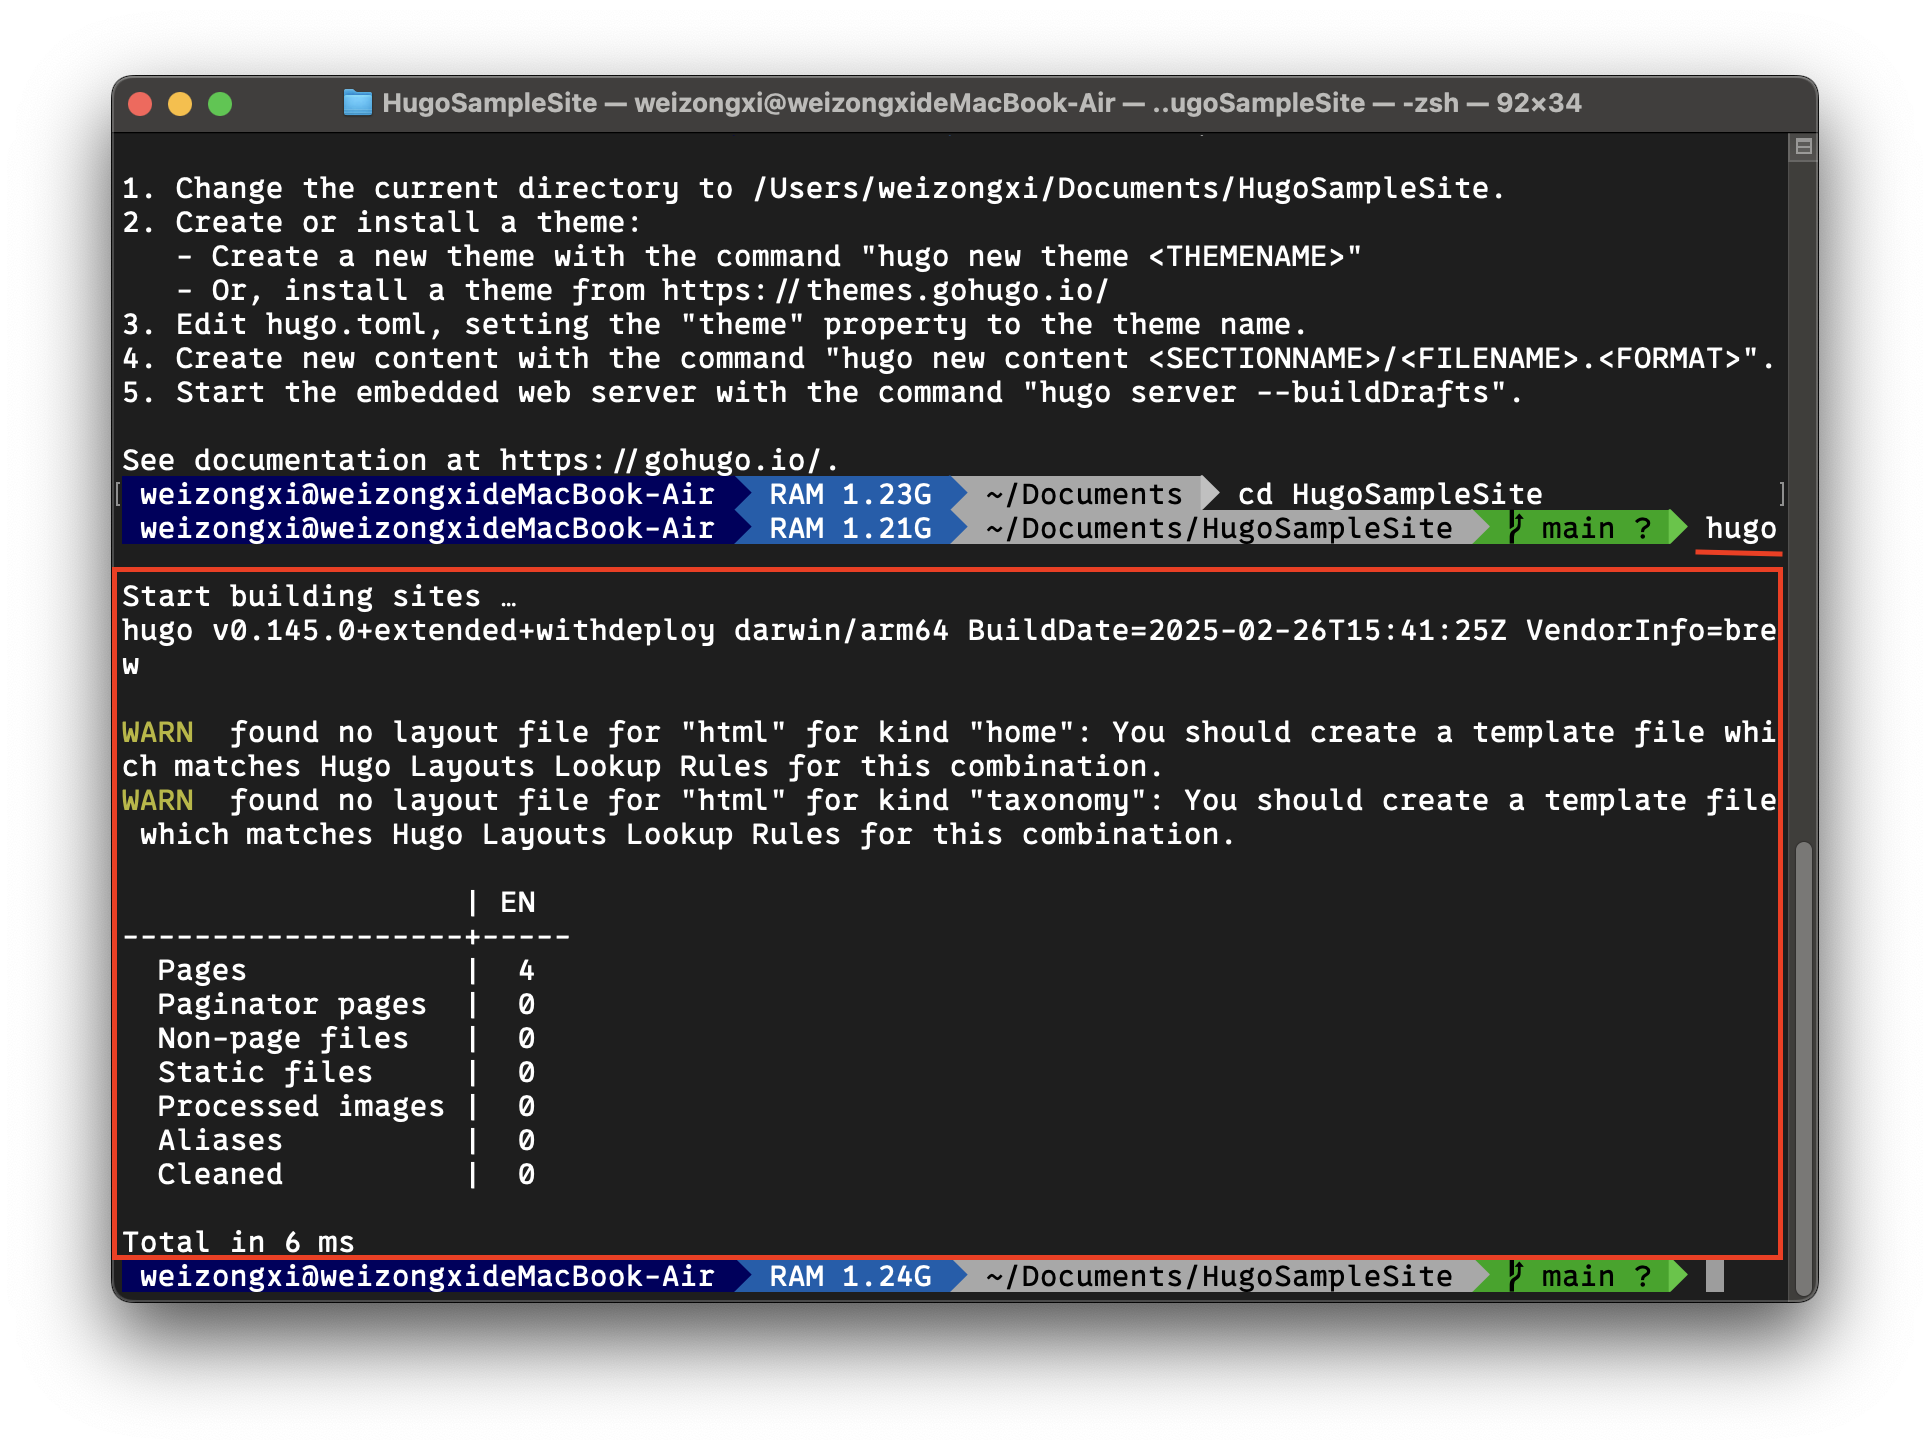
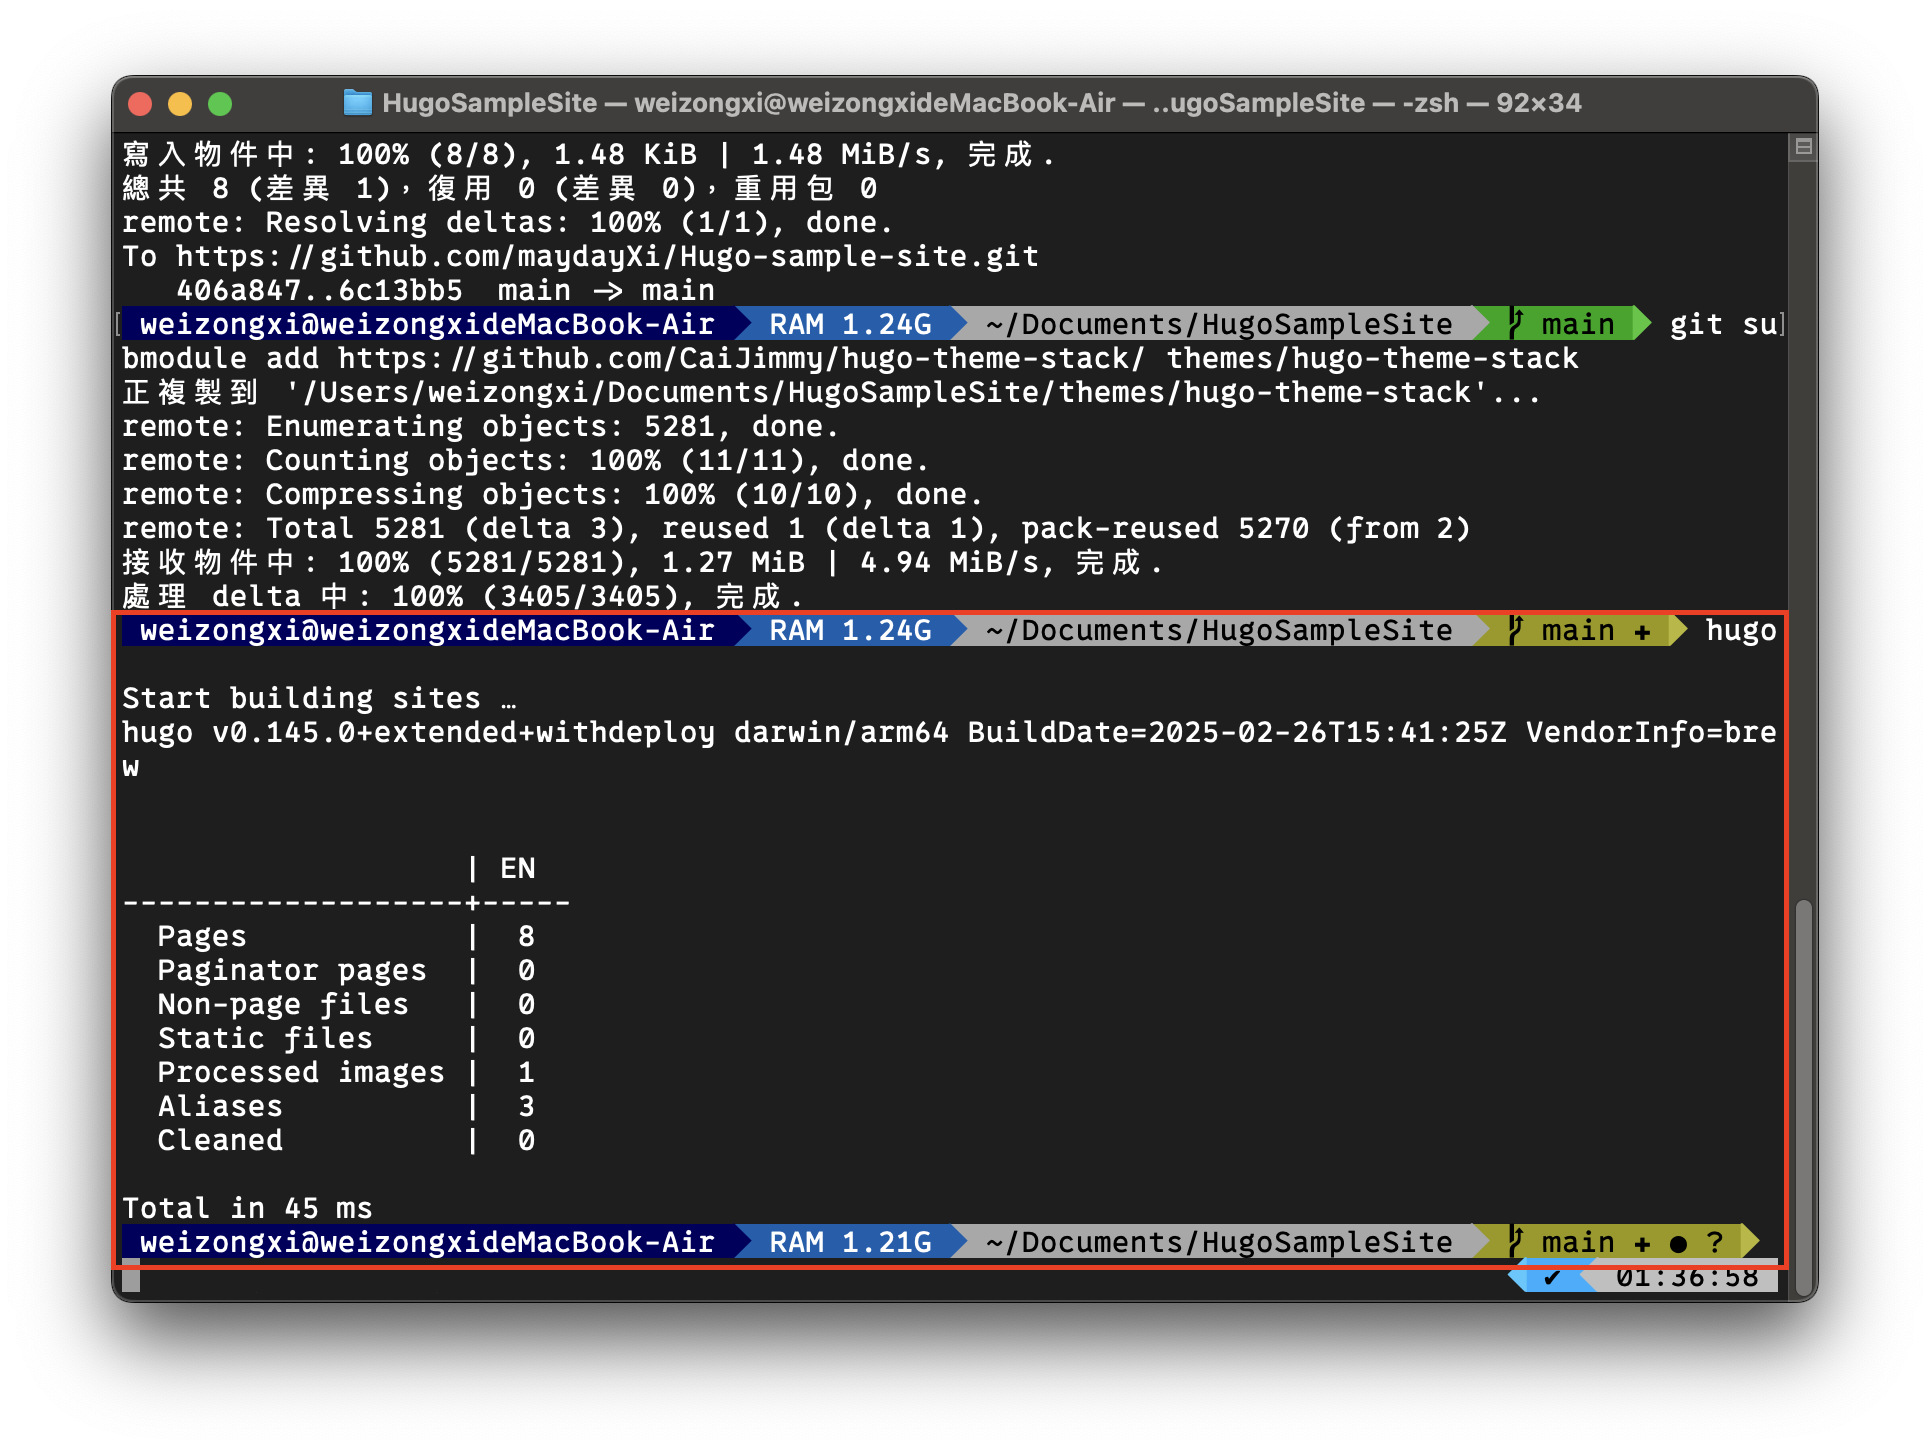
Add hugo theme installation section in hugo-new-site-tutorial/index.md

Changed region(s): [[0.0622, 0.0931, 0.9637, 0.9]]

diff --git a/content/posts/hugo-new-site-tutorial/index.md b/content/posts/hugo-new-site-tutorial/index.md
@@ -10,6 +10,7 @@ tags:
   - git
   - GitHub
   - GitHub Pages
+  - Terminal
 image: hugo-logo.png
 ---
 
@@ -191,9 +192,12 @@ hugo new site HugoSampleSite --force
 
 ![HugoSampleSite](hugo-sample-site.png)
 
-# 第一版程式上傳（optional）
+# 第一版程式上傳
 
-網站目錄建立完成後，終端機輸入 **cd HugoSampleSite** 切回 `HugoSampleSite` 目錄，接著進行第一版的網站上傳，依序輸入下列指令
+可以的話請先閱讀 **_[版本控制特別說明](#上傳第二版程式)_**，再決定是否要上傳第一版。
+也可以在第二版上傳步驟一次上傳。
+
+終端機輸入 **cd HugoSampleSite** 切回 `HugoSampleSite` 目錄，接著進行第一版的網站上傳，依序輸入下列指令
 
 ```bash
 cd HugoSampleSite/
@@ -234,20 +238,38 @@ git push
 
 # 套用主題
 
-```bash
+可以在 **_[Hugo Theme](https://themes.gohugo.io/)_** 找到自己喜歡的主題下載下來套用，不過每個主題的設定方式略有不同，所以要以官方文件為主。而同一個主題也會至少有兩以上的安方式，沒有哪一個比較好，我只是做其中一種方式而已。
 
+## Stack 官方文件
+
+我以 **_[Stack](https://themes.gohugo.io/themes/hugo-theme-stack/)_** 為例，到主題頁後，可以點「**_[Download](https://github.com/CaiJimmy/hugo-theme-stack)_**」會導向它的 GitHub，在 Readme 中可以找到 Documentation
+有一個 **_[stack.jimmycai.com](https://stack.jimmycai.com/)_** 連結，就會找到他的官方文件。
+
+## 下載 Stack 主題至網站
+
+在官網中有一個 **_[Get started](https://stack.jimmycai.com/guide/getting-started)_** 往下會有一個 **_[installation](https://stack.jimmycai.com/guide/getting-started#installation)_** 的段落，因為已經有 git 的關係，所以我選擇第二個方式安裝。
+
+![Hugo-Theme-Stack-Installation](hugo-theme-stack-installation.png)
+
+複製指令後，回到終端機，確認目前所在目錄是網站的根目錄，將複製的指令（或下方）貼上執行
+
+```bash
+git submodule add https://github.com/CaiJimmy/hugo-theme-stack/ themes/hugo-theme-stack
+```
+
+成功安裝會看到下面的畫面
+
+![Hugo-Theme-Stack installed](hugo-theme-stack-installed.png)
+
+最後在根目錄下找到網站的設定檔 **hugo.toml**（通常會是這個名字），用編輯器或 IDE 打開，我使用的是 **_[Visual Studio Code](https://code.visualstudio.com/)_**，也可以使用其他的編輯器
+
+```toml
+theme = 'hugo-theme-stack'
 ```
 
 # 編譯並執行
 
-進行網站編譯。
-
-```bash
-cd HugoSampleSite/
-```
-
-由上一步可以看到目錄下有一些初始的資料夾以及相關的檔案，如 hugo.toml 設定檔。
-hugo 是由 [Go](https://zh.wikipedia.org/zh-tw/Go) 語言寫的，所以會用 Go 的編譯器將目錄下的檔案編譯成靜態的網頁檔，如 **.html, .css, .js** 等等，並產出到 public 錄目。
+接著進行網站編譯，hugo 是由 [Go](https://zh.wikipedia.org/zh-tw/Go) 語言寫的，所以會用 Go 的編譯器將目錄下的檔案（主題包，設定檔……）編譯成靜態的網頁檔，如 **.html, .css, .js** 等等，並產出到 public 錄目。
 
 相關指令
 
@@ -272,4 +294,54 @@ hugo server
 
 ![HugoSampleSite hugo server](hugo-sample-site-server.png)
 
-輸入上圖的網址，就可以看到執行的結果了
+在瀏覽器中輸入上圖的網址「**http://localhost:port**」port 可能會不一樣，就可以看到執行的結果了
+
+![HugoSampleSite with hugo-theme-stack](hugo-theme-stack-apply.png)
+
+成功後會發現主題已經套用了，可以按「**Ctrl + C**」結束執行
+
+# 上傳第二版程式
+
+## 版本控制特別說明
+
+如果有先 Google 過其他的教學文，應該會發現我的做法不太一樣
+
+1. 我在 create repository 的時候就建立版本控制的目錄了
+2. 在一開始 hugo new site 完成的時候，我就上傳了第一個程式版本
+
+這涉及到對版本控制的理解不同，發現很多教學文，都是在 **hugo server** 之後才進入版本控制，而且只會將編譯後的 `public/` 目錄上傳到 GitHub 做版本控制。
+
+不過我認為，`public/` 是編譯後的產物，hugo 的編譯機制對於初學者來說，比較雖去追踨編譯前改了什麼東西，導致編譯後的結果不同。所以我選擇了版本控制整個專案，也因為這樣的決擇，我的佈署方式也會不同。
+
+當然沒有哪一種作是是絕對的對或絕對的好，只有在不同的情況下，採用不同的做法，當然如果是照本篇教學文做下來，就只能用我的做法完成，不然後續佈署的時候會出問題。
+
+**另外如果第一版沒有上傳的話，第二版上傳的步驟一定要做**
+
+**_[回到第一版程式上傳](#第一版程式上傳)_**
+
+## 加入 .gitignore 檔案
+
+.gitignore 檔是告訴 git 有哪些檔案或目錄不需要版本控制，這裡可以直接複製剛剛安裝的主題在 `theme/hugo-theme-stack/` 下有一個 `.gitignore` 檔，它是一個隱藏的檔案，需要設定把隱藏拿掉才看得到。
+
+![.gitignore](hugo-theme-stack-gitignore.png)
+
+把 `.gitignore` 複製到網站根目錄下。
+
+![HugoSampleSite gitignore](hugo-sample-site-gitignore.png)
+
+## 上傳第二版
+
+接著照第一版程式上傳步驟進行到 commit 階段
+**將 commit -m 參數訊息改寫成 "Add hugo-theme-stack"**
+
+```bash
+git commit -m "Add hugo-theme-stack"
+```
+
+最後到 GitHub Repository 確認上傳結果
+
+![GitHub Second Commit](github-second-commit.png)
+
+# 完成
+
+到這邊已經完成了一個套用主題的網站了，不過還是 **_[Demo](https://demo.stack.jimmycai.com/)_** 差得很遠，下一篇教學會告訴大家如何設定主題的詳細設置。而我的第一篇終於也完成了~
